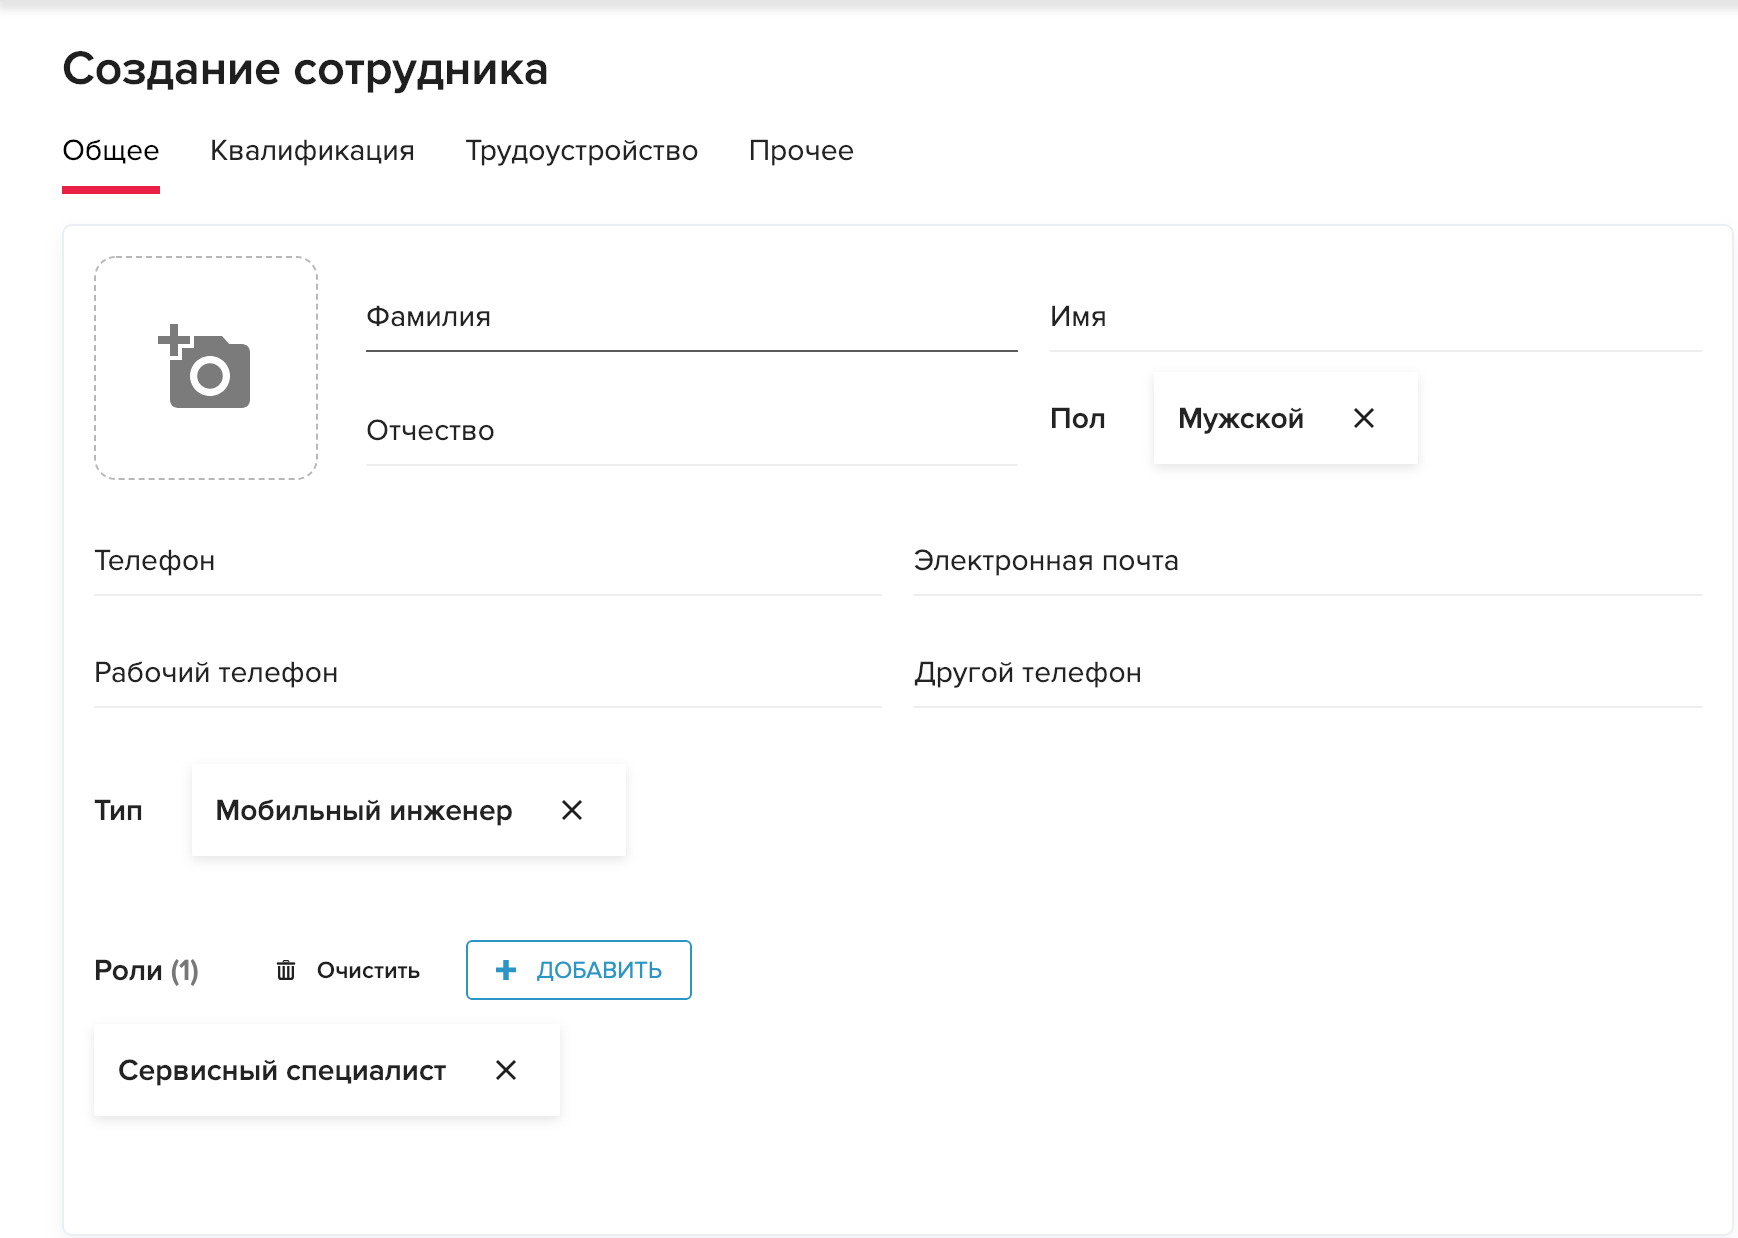
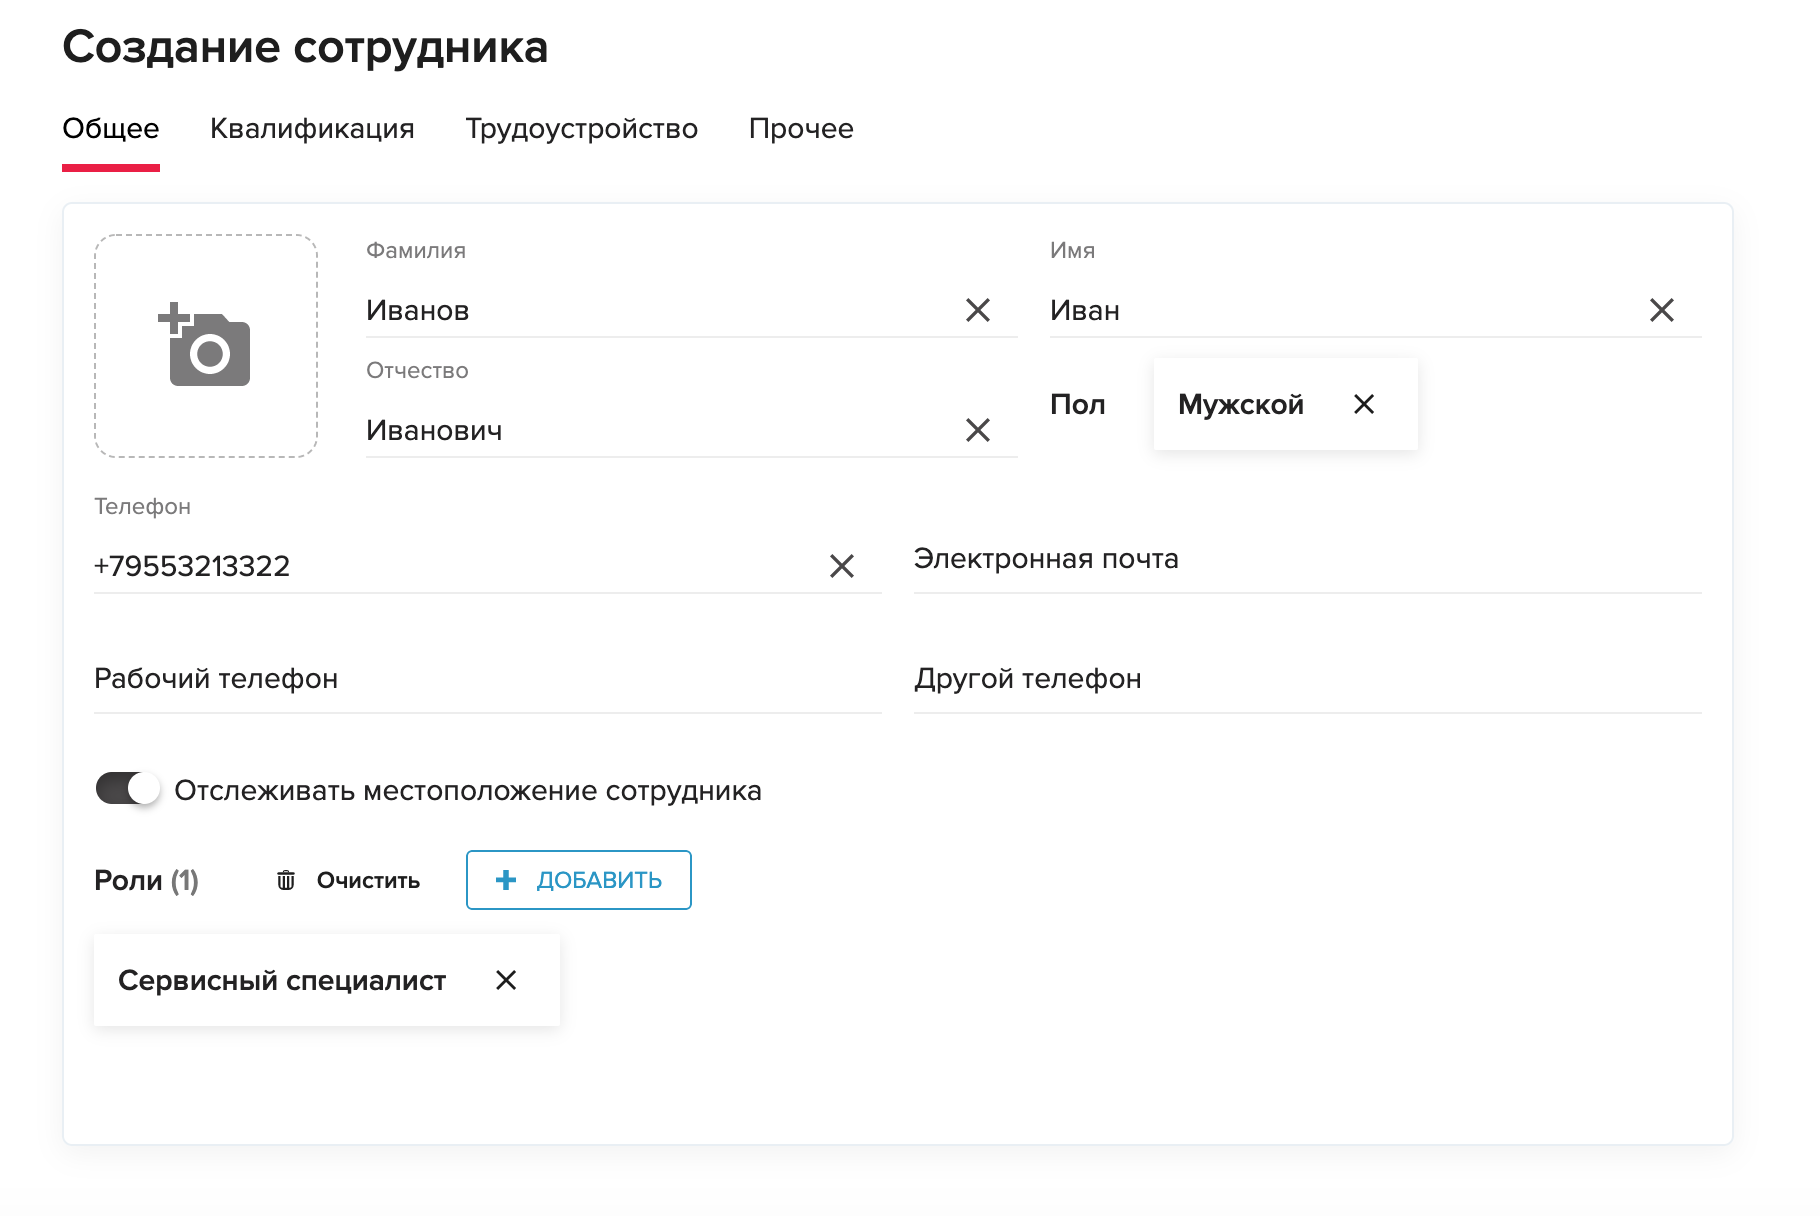
crtuserupd

diff --git a/docs/FAQ/RU/user/CreatingUser.md b/docs/FAQ/RU/user/CreatingUser.md
@@ -29,14 +29,11 @@ description: Как создавать профили пользователей
  </ul>
 </html>
 
-Для создания пользователя необходимо перейти в пункт «Сотрудники» бокового меню. По нажатию на кнопку «Добавить сотрудника» откроется форма создания пользователя.
+Для создания пользователя необходимо перейти в пункт «Пользователи» бокового меню, а затем нажать "Сотрудники". По нажатию на кнопку «Добавить сотрудника» откроется форма создания пользователя.
 ![User1](/attachments/images/FAQ/USER/CreatingUser/user1.png)
 
-В системе HubEx используется два, казалось бы, схожих наименования : Роль и Тип сотрудника, однако они выполняют разные функции. Роль – это определенный статус у каждого пользователя , который дает и ограничивает ему функционал. Пример выбора ролей вы можете видеть на фото ниже.
+В системе HubEx используется понятие "Роль" – это определенный статус у каждого пользователя , который дает и ограничивает ему функционал. Пример выбора ролей вы можете видеть на фото ниже.
 ![User9.png](/attachments/images/FAQ/USER/CreatingUser/user9.png)   
-
- А «Тип сотрудника» определяет принадлежность (деятельность) пользователя к той или иной группе. Также тип сотрудника используется для автоназначения, например для заказчика или мобильного инженера, и при выбранном типе сотрудника «мобильный инженер» Вы включите отслеживание геопозиции у данного сотрудника.
- ![User10.png](/attachments/images/FAQ/USER/CreatingUser/user10.png)   
 
 <h5 id="createadm">Создание Начальника Сервисной Службы/Администратора</h5>
 
@@ -51,9 +48,9 @@ description: Как создавать профили пользователей
 ![User8.png](/attachments/images/FAQ/USER/CreatingUser/user8.png)   
 Не забудьте сохранить пользователя.
 
-   <h5 id="createuser">Создание сервисного инженера</h5>
+<h5 id="createuser">Создание сервисного инженера</h5>
 
-Для создания сервисного инженера заполните необходимые персональные данные пользователя (необходимо заполнить поля «Фамилия» и «Имя», а также одно из полей «Телефон» или «Электронная почта»), затем присвойте пользователю роль «Сервисный специалист».
+Для создания сервисного инженера заполните необходимые персональные данные пользователя (необходимо заполнить поля «Фамилия» и «Имя», а также одно из полей «Телефон» или «Электронная почта»), затем присвойте пользователю роль «Сервисный специалист». Обязательно включите отслеживание местоположение сотрудника, чтобы всегда быть в курсе, где находится Ваш сотрудник.
 ![User3.png](/attachments/images/FAQ/USER/CreatingUser/user3.png)
     После добавления пользователя на сайте, ему придет письмо для подтверждения регистрации:
 ![User4.png](/attachments/images/FAQ/USER/CreatingUser/user4.png)

diff --git a/docs/FAQ/RU/admin/TicketAttribute.md b/docs/FAQ/RU/admin/TicketAttribute.md
@@ -9,13 +9,14 @@
 Далее обязательно введите название нового атрибута и укажите тип атрибута.
 - Тип атрибута - это тип данных, который будет отображаться в Вашем чеклисте или в паспорте объекта.
 
-Если Ваш атрибут подразумевает некоторую единицу измерения, например килограммы или литры, то выберите соответствующий пункт, в противном случае (например, если тип атрибута целое число или строка) оставьте это поле без изменений. 
+Если Ваш атрибут подразумевает некоторую единицу измерения, например килограммы или литры, то выберите соответствующий пункт, в противном случае (например, если тип атрибута целое число или строка) оставьте это поле без изменений.
 Обязательно поставьте галочку в поле "Публичное", если хотите немедленно получить возможность выбора этого атрибута в Вашем чеклисте.
 
 ![tickatt1](/attachments/images/FAQ/ADMIN/TicketAttribute/tickatt1.png)
 
 Не забудьте нажать кнопку сохранить после заполнения новых полей.
 
+Для внесения изменений, просто выберите один из списка всех атрибутов заявки, после чего внесите требуемые изменения.
 
 ____
 - [Перейти в меню](http://wiki.hubex.ru)
